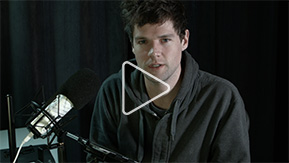
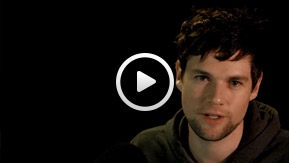
Updated readme with additional info and new video

diff --git a/tpl/page.php b/tpl/page.php
@@ -32,7 +32,7 @@
 				?>
 				<div class="postbox" id="so-custom-css-getting-started">
 					<h3 class="hndle">
-						<span><?php _e('Getting Started', 'so-css') ?></span>
+						<span><?php _e('Getting Started Video', 'so-css') ?></span>
 						<a href="<?php echo wp_nonce_url( admin_url('admin-ajax.php?action=socss_hide_getting_started'), 'hide' ) ?>" class="hide"><?php _e('Dismiss', 'so-css') ?></a>
 					</h3>
 					<div class="inside">
